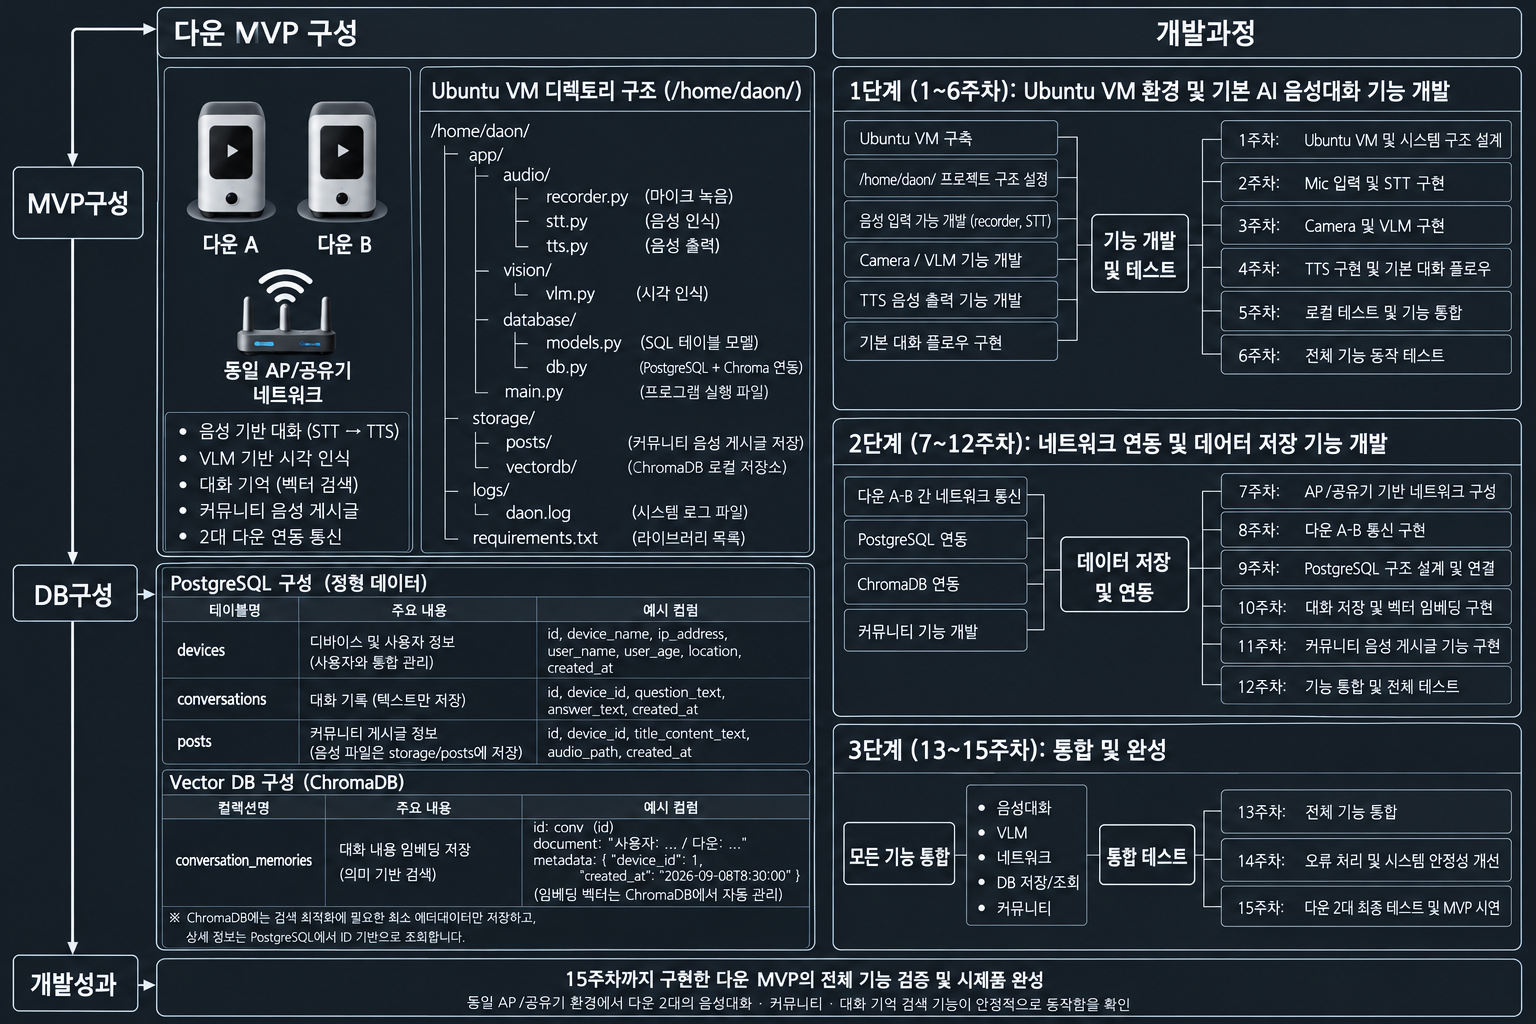
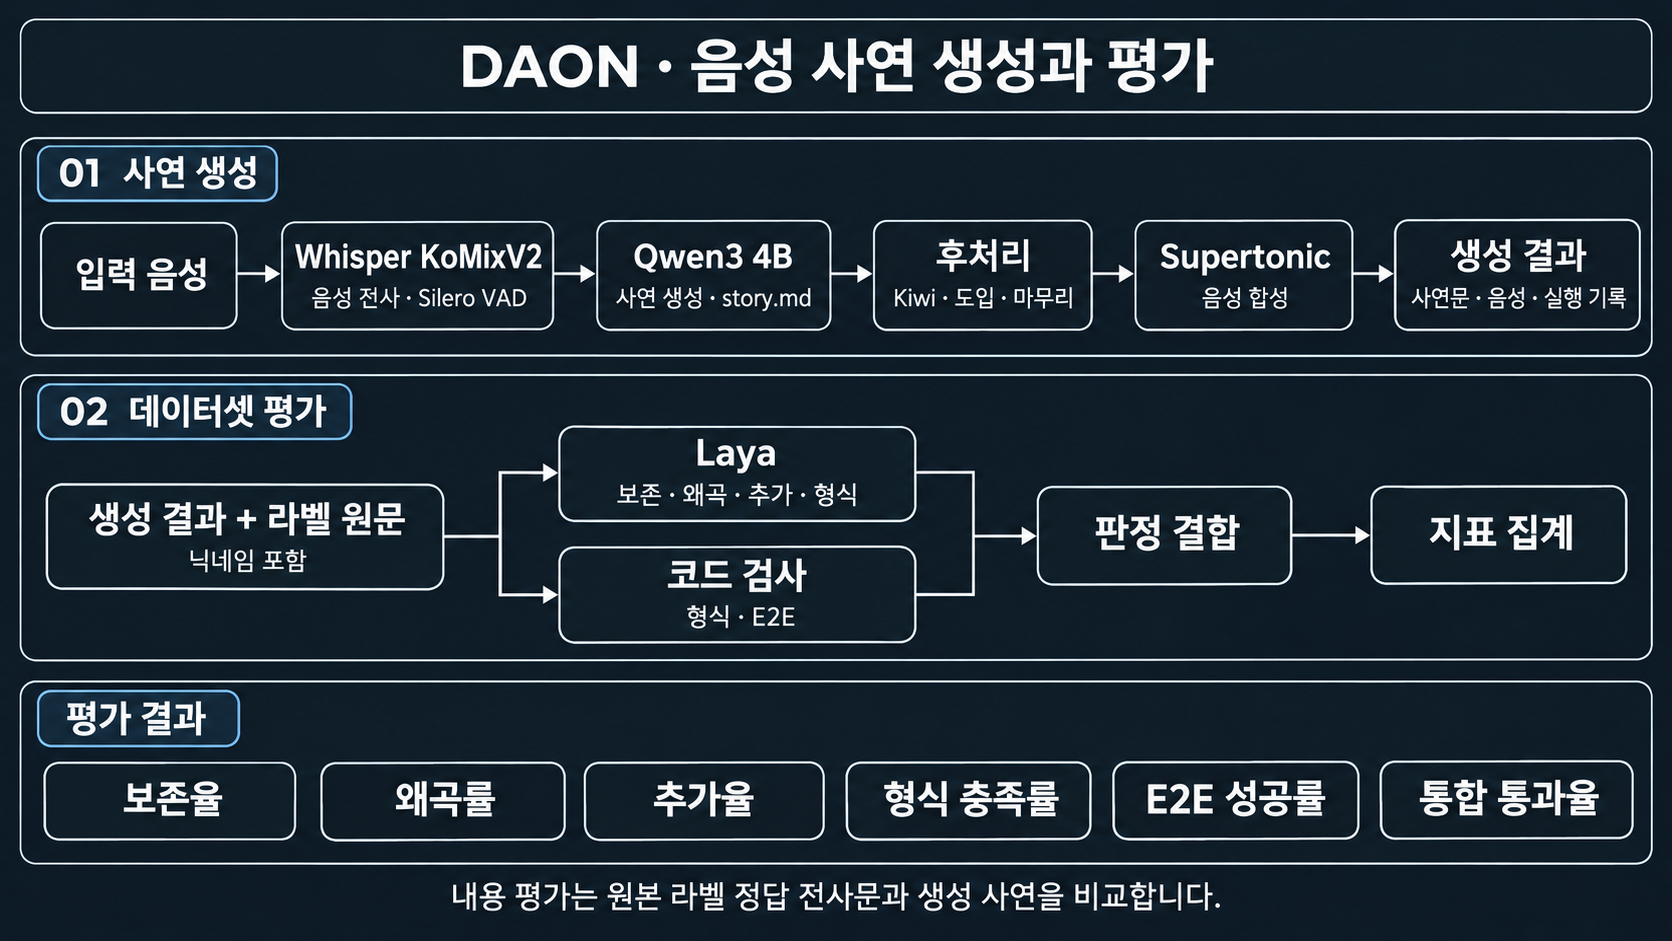
Update README workflow image for current generation and Laya evaluation

Changed region(s): [[0.0, 0.0, 1.0, 1.0]]

diff --git a/README.md b/README.md
@@ -2,9 +2,7 @@
 
 독거노인 커뮤니티용 음성 사연 생성·평가 프로젝트.
 
-```text
-입력 음성 → Whisper KoMixV2 → Qwen → 후처리 → Supertonic → 사연 음성
-```
+![DAON 음성 사연 생성과 데이터셋 평가 흐름](docs/Daon_workflow.png)
 
 데이터셋 평가에서는 원본 라벨 정답 전사문과 생성 사연을 Laya에 함께 입력해 비교한다. 형식은 Laya와 코드 검사로 판정하고, E2E는 실제 실행 기록과 출력 음성으로 확인한다. 정답 전사문이 없는 실사용 환경에서 같은 방식의 내용 평가는 지원하지 않는다.
 
